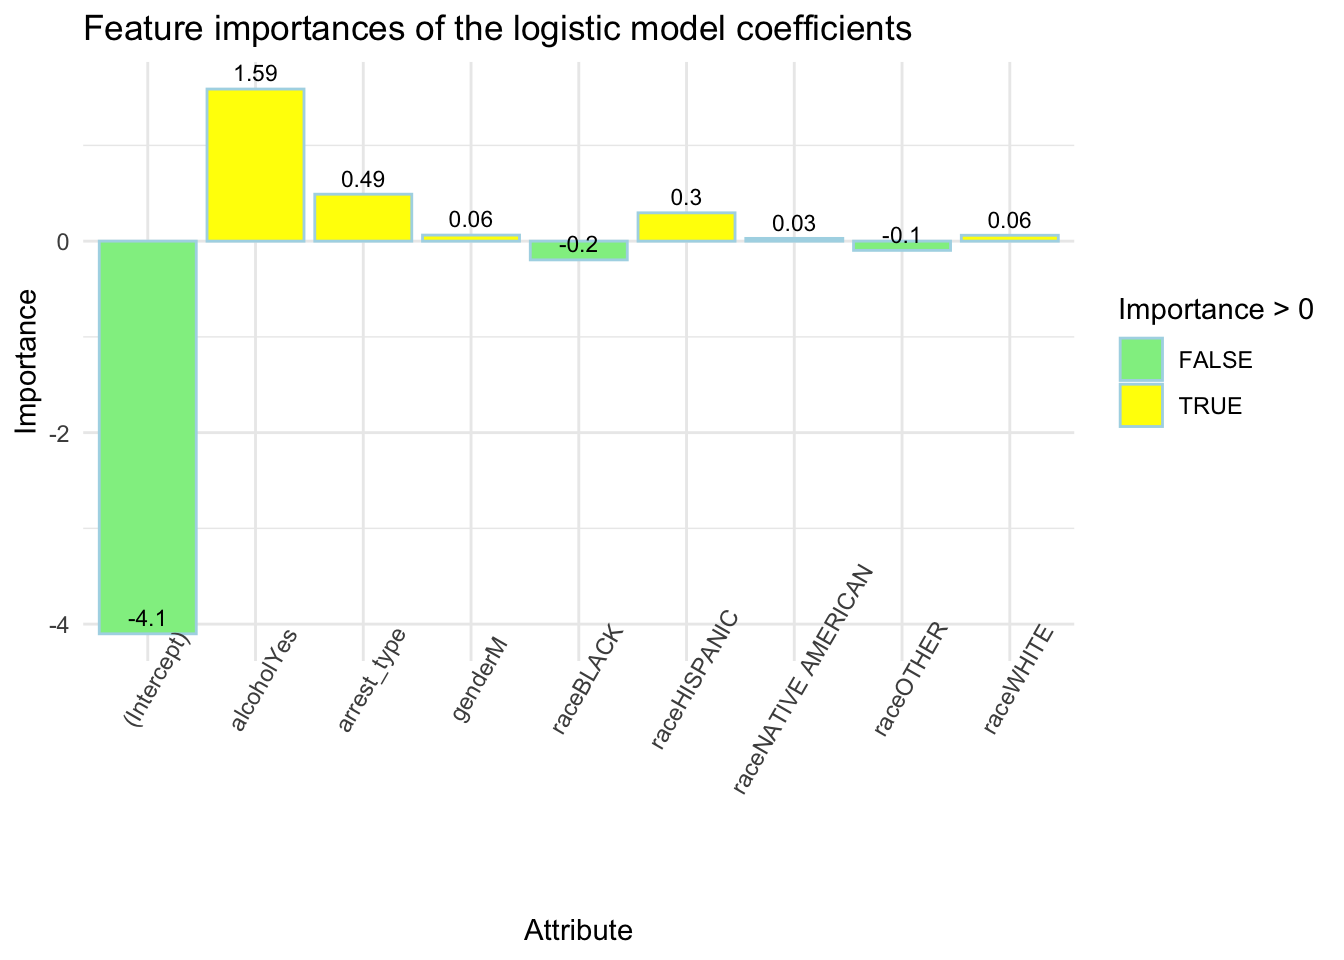
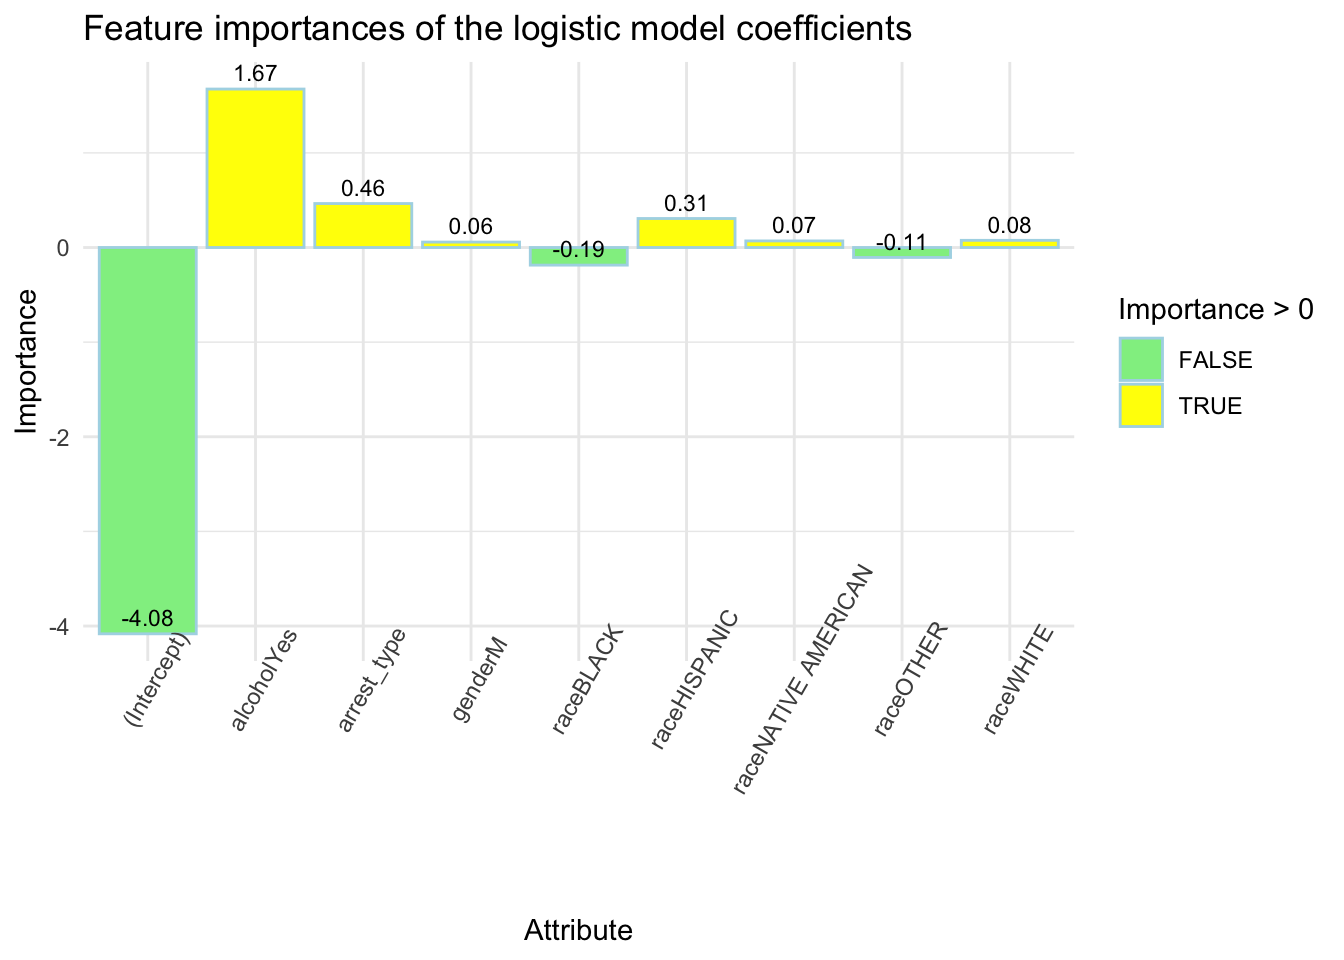
Built site for gh-pages

diff --git a/analysis.html b/analysis.html
@@ -157,20 +157,6 @@ ul.task-list li input[type="checkbox"] {
 <h3 class="anchored" data-anchor-id="investigating-correlations-between-race-and-traffic-incidents">Investigating Correlations Between Race and Traffic Incidents</h3>
 <p>In our gathered datasets, the racial demographics in Montgomery County were delineated into six primary categories: Asian, White, Black, Hispanic, Native American, and other. It is evident that each of these population segments experiences varying levels of accident rates. To delve into the specifics, we sought to ascertain the respective crash rates for each population group, aiming to discern the percentage contribution of traffic accidents within the county. Guided by this objective, we meticulously crafted an initial visual representation in the form of a pie chart.</p>
 <div class="cell">
-<div class="cell-output cell-output-stderr">
-<pre><code>
-Attaching package: 'dplyr'</code></pre>
-</div>
-<div class="cell-output cell-output-stderr">
-<pre><code>The following objects are masked from 'package:stats':
-
-    filter, lag</code></pre>
-</div>
-<div class="cell-output cell-output-stderr">
-<pre><code>The following objects are masked from 'package:base':
-
-    intersect, setdiff, setequal, union</code></pre>
-</div>
 <div class="cell-output cell-output-stdout">
 <pre><code>                 ACCIDENT
 RACE                Yes
@@ -197,24 +183,6 @@ RACE                Yes
 <p>Figure 2 presents a detailed breakdown of accident rates within each racial category, offering a nuanced perspective distinct from the overall pie chart analyzing accident counts by race. Notably, the accident rate within the White race is comparatively lower at 2.786%, while the Hispanic race exhibits a higher accident rate of 3.568%. This implies that for every 100 traffic reports concerning the Hispanic race, 3.568 accidents are recorded. Further insights reveal that, despite Native Americans and Asians experiencing a lower frequency of accidents, their accident rates are relatively elevated at 2.801% and 2.648%, respectively, in comparison to the corresponding traffic report figures for their ethnicities. Conversely, although the Black ethnic group registers the third-highest number of accidents, its accident rate is the lowest at 2.182%.</p>
 <p>From first glance at this data, one might assume that prioritizing Hispanic neighborhoods emerges as an effective strategy to reduce both the total number of accidents and the accident rate. However when we look at the locations of both crashes and violations we see a different trend.</p>
 <div class="cell">
-<div class="cell-output cell-output-stderr">
-<pre><code>Linking to GEOS 3.11.0, GDAL 3.5.3, PROJ 9.1.0; sf_use_s2() is TRUE</code></pre>
-</div>
-<div class="cell-output cell-output-stderr">
-<pre><code>Warning: One or more parsing issues, call `problems()` on your data frame for details,
-e.g.:
-  dat &lt;- vroom(...)
-  problems(dat)</code></pre>
-</div>
-<div class="cell-output cell-output-stderr">
-<pre><code>Getting data from the 2020 decennial Census</code></pre>
-</div>
-<div class="cell-output cell-output-stderr">
-<pre><code>Downloading feature geometry from the Census website.  To cache shapefiles for use in future sessions, set `options(tigris_use_cache = TRUE)`.</code></pre>
-</div>
-<div class="cell-output cell-output-stderr">
-<pre><code>Using the PL 94-171 Redistricting Data Summary File</code></pre>
-</div>
 <div class="cell-output cell-output-stdout">
 <pre><code>
   |                                                                            
@@ -224,11 +192,11 @@ e.g.:
   |                                                                            
   |==                                                                    |   2%
   |                                                                            
+  |==                                                                    |   3%
+  |                                                                            
   |===                                                                   |   5%
   |                                                                            
   |====                                                                  |   6%
-  |                                                                            
-  |=====                                                                 |   7%
   |                                                                            
   |======                                                                |   8%
   |                                                                            
@@ -236,82 +204,69 @@ e.g.:
   |                                                                            
   |=======                                                               |  10%
   |                                                                            
-  |========                                                              |  12%
+  |========                                                              |  11%
   |                                                                            
   |=========                                                             |  13%
   |                                                                            
-  |===============                                                       |  21%
+  |==========                                                            |  14%
+  |                                                                            
+  |==========                                                            |  15%
+  |                                                                            
+  |===========                                                           |  16%
+  |                                                                            
+  |=============                                                         |  18%
+  |                                                                            
+  |=============                                                         |  19%
+  |                                                                            
+  |===============                                                       |  22%
   |                                                                            
   |================                                                      |  23%
   |                                                                            
-  |=================                                                     |  24%
+  |==================                                                    |  26%
   |                                                                            
-  |===================                                                   |  26%
+  |===================                                                   |  27%
   |                                                                            
-  |====================                                                  |  29%
-  |                                                                            
-  |======================                                                |  31%
+  |======================                                                |  32%
   |                                                                            
   |=======================                                               |  33%
   |                                                                            
-  |========================                                              |  35%
+  |========================                                              |  34%
   |                                                                            
-  |=========================                                             |  36%
-  |                                                                            
-  |==========================                                            |  37%
-  |                                                                            
-  |===========================                                           |  38%
+  |===========================                                           |  39%
   |                                                                            
   |============================                                          |  40%
   |                                                                            
   |==============================                                        |  43%
   |                                                                            
-  |===============================                                       |  45%
+  |==================================                                    |  48%
   |                                                                            
-  |================================                                      |  46%
+  |==================================                                    |  49%
   |                                                                            
-  |=================================                                     |  47%
-  |                                                                            
-  |===================================                                   |  49%
-  |                                                                            
-  |=====================================                                 |  53%
+  |===================================                                   |  50%
   |                                                                            
   |========================================                              |  57%
   |                                                                            
+  |=========================================                             |  58%
+  |                                                                            
   |=============================================                         |  64%
   |                                                                            
-  |===============================================                       |  68%
+  |=============================================                         |  65%
   |                                                                            
-  |=================================================                     |  70%
+  |================================================                      |  68%
   |                                                                            
-  |===================================================                   |  72%
+  |===================================================                   |  73%
   |                                                                            
   |=====================================================                 |  76%
   |                                                                            
-  |=======================================================               |  78%
+  |========================================================              |  80%
   |                                                                            
-  |=========================================================             |  82%
+  |===========================================================           |  84%
   |                                                                            
-  |==========================================================            |  83%
+  |===============================================================       |  90%
   |                                                                            
-  |============================================================          |  86%
-  |                                                                            
-  |=============================================================         |  87%
-  |                                                                            
-  |==================================================================    |  94%
-  |                                                                            
-  |====================================================================  |  98%
-  |                                                                            
-  |===================================================================== |  99%
+  |====================================================================  |  97%
   |                                                                            
   |======================================================================| 100%</code></pre>
-</div>
-<div class="cell-output cell-output-stderr">
-<pre><code>Note: 2020 decennial Census data use differential privacy, a technique that
-introduces errors into data to preserve respondent confidentiality.
-ℹ Small counts should be interpreted with caution.
-ℹ See https://www.census.gov/library/fact-sheets/2021/protecting-the-confidentiality-of-the-2020-census-redistricting-data.html for additional guidance.
-This message is displayed once per session.</code></pre>
 </div>
 <div class="cell-output-display">
 <p><img src="analysis_files/figure-html/unnamed-chunk-3-1.png" class="img-fluid" width="672"></p>
@@ -328,14 +283,6 @@ This message is displayed once per session.</code></pre>
 <p>There could also be many confounding factors in this data that intertwine with race specifically. For example, one interpretation of the data could suggest that there is a need for special preventive measures in ethnic minority Native American communities due to their elevated accident rates. Instead of funding additional policing as a “preventative measure”, perhaps the driver education in communities of color might be inadequate and the government should direct their funding to better driver education programs instead.</p>
 <p>With further analysis, we believe our findings could offer valuable insights and allow the Montgomery County government to make better informed decisions about government management, such as reinvesting their funding into community uplifting programs. By tailoring interventions based on the observed patterns, Montgomery County has the potential to address any unconscious bias and enhance traffic conditions, thereby reducing the likelihood of traffic accidents in the future and improving the county for all of its citizens.</p>
 <div class="cell">
-<div class="cell-output cell-output-stderr">
-<pre><code>`summarise()` has grouped output by 'month_year'. You can override using the
-`.groups` argument.</code></pre>
-</div>
-<div class="cell-output cell-output-stderr">
-<pre><code>Warning: Using `size` aesthetic for lines was deprecated in ggplot2 3.4.0.
-ℹ Please use `linewidth` instead.</code></pre>
-</div>
 <div class="cell-output-display">
 <p><img src="analysis_files/figure-html/unnamed-chunk-5-1.png" class="img-fluid" width="672"></p>
 </div>
@@ -361,23 +308,23 @@ glm(formula = y_train ~ ., family = "binomial", data = cbind(y_train,
 
 Coefficients:
                     Estimate Std. Error  z value Pr(&gt;|z|)    
-(Intercept)         -4.10131    0.03603 -113.826  &lt; 2e-16 ***
-raceBLACK           -0.19557    0.02356   -8.301  &lt; 2e-16 ***
-raceHISPANIC         0.29584    0.02339   12.647  &lt; 2e-16 ***
-raceNATIVE AMERICAN  0.02860    0.11983    0.239  0.81137    
-raceOTHER           -0.09620    0.03057   -3.147  0.00165 ** 
-raceWHITE            0.06119    0.02301    2.659  0.00784 ** 
-alcoholYes           1.58847    0.08973   17.702  &lt; 2e-16 ***
-genderM              0.06306    0.01097    5.748 9.03e-09 ***
-arrest_type          0.49027    0.02886   16.989  &lt; 2e-16 ***
+(Intercept)         -4.08220    0.03582 -113.972  &lt; 2e-16 ***
+raceBLACK           -0.18614    0.02367   -7.864 3.71e-15 ***
+raceHISPANIC         0.30634    0.02350   13.037  &lt; 2e-16 ***
+raceNATIVE AMERICAN  0.06940    0.11837    0.586 0.557681    
+raceOTHER           -0.10512    0.03076   -3.418 0.000631 ***
+raceWHITE            0.07575    0.02311    3.277 0.001049 ** 
+alcoholYes           1.67431    0.08727   19.186  &lt; 2e-16 ***
+genderM              0.05719    0.01096    5.218 1.81e-07 ***
+arrest_type          0.46462    0.02852   16.292  &lt; 2e-16 ***
 ---
 Signif. codes:  0 '***' 0.001 '**' 0.01 '*' 0.05 '.' 0.1 ' ' 1
 
 (Dispersion parameter for binomial family taken to be 1)
 
-    Null deviance: 374143  on 1467540  degrees of freedom
-Residual deviance: 372163  on 1467532  degrees of freedom
-AIC: 372181
+    Null deviance: 374335  on 1467540  degrees of freedom
+Residual deviance: 372336  on 1467532  degrees of freedom
+AIC: 372354
 
 Number of Fisher Scoring iterations: 6</code></pre>
 </div>

diff --git a/big_picture.html b/big_picture.html
@@ -171,20 +171,6 @@ ul.task-list li input[type="checkbox"] {
 </div>
 </div>
 <div class="cell">
-<div class="cell-output cell-output-stderr">
-<pre><code>
-Attaching package: 'dplyr'</code></pre>
-</div>
-<div class="cell-output cell-output-stderr">
-<pre><code>The following objects are masked from 'package:stats':
-
-    filter, lag</code></pre>
-</div>
-<div class="cell-output cell-output-stderr">
-<pre><code>The following objects are masked from 'package:base':
-
-    intersect, setdiff, setequal, union</code></pre>
-</div>
 <div class="cell-output-display">
 <p><img src="big_picture_files/figure-html/unnamed-chunk-2-1.png" class="img-fluid" width="672"></p>
 </div>
